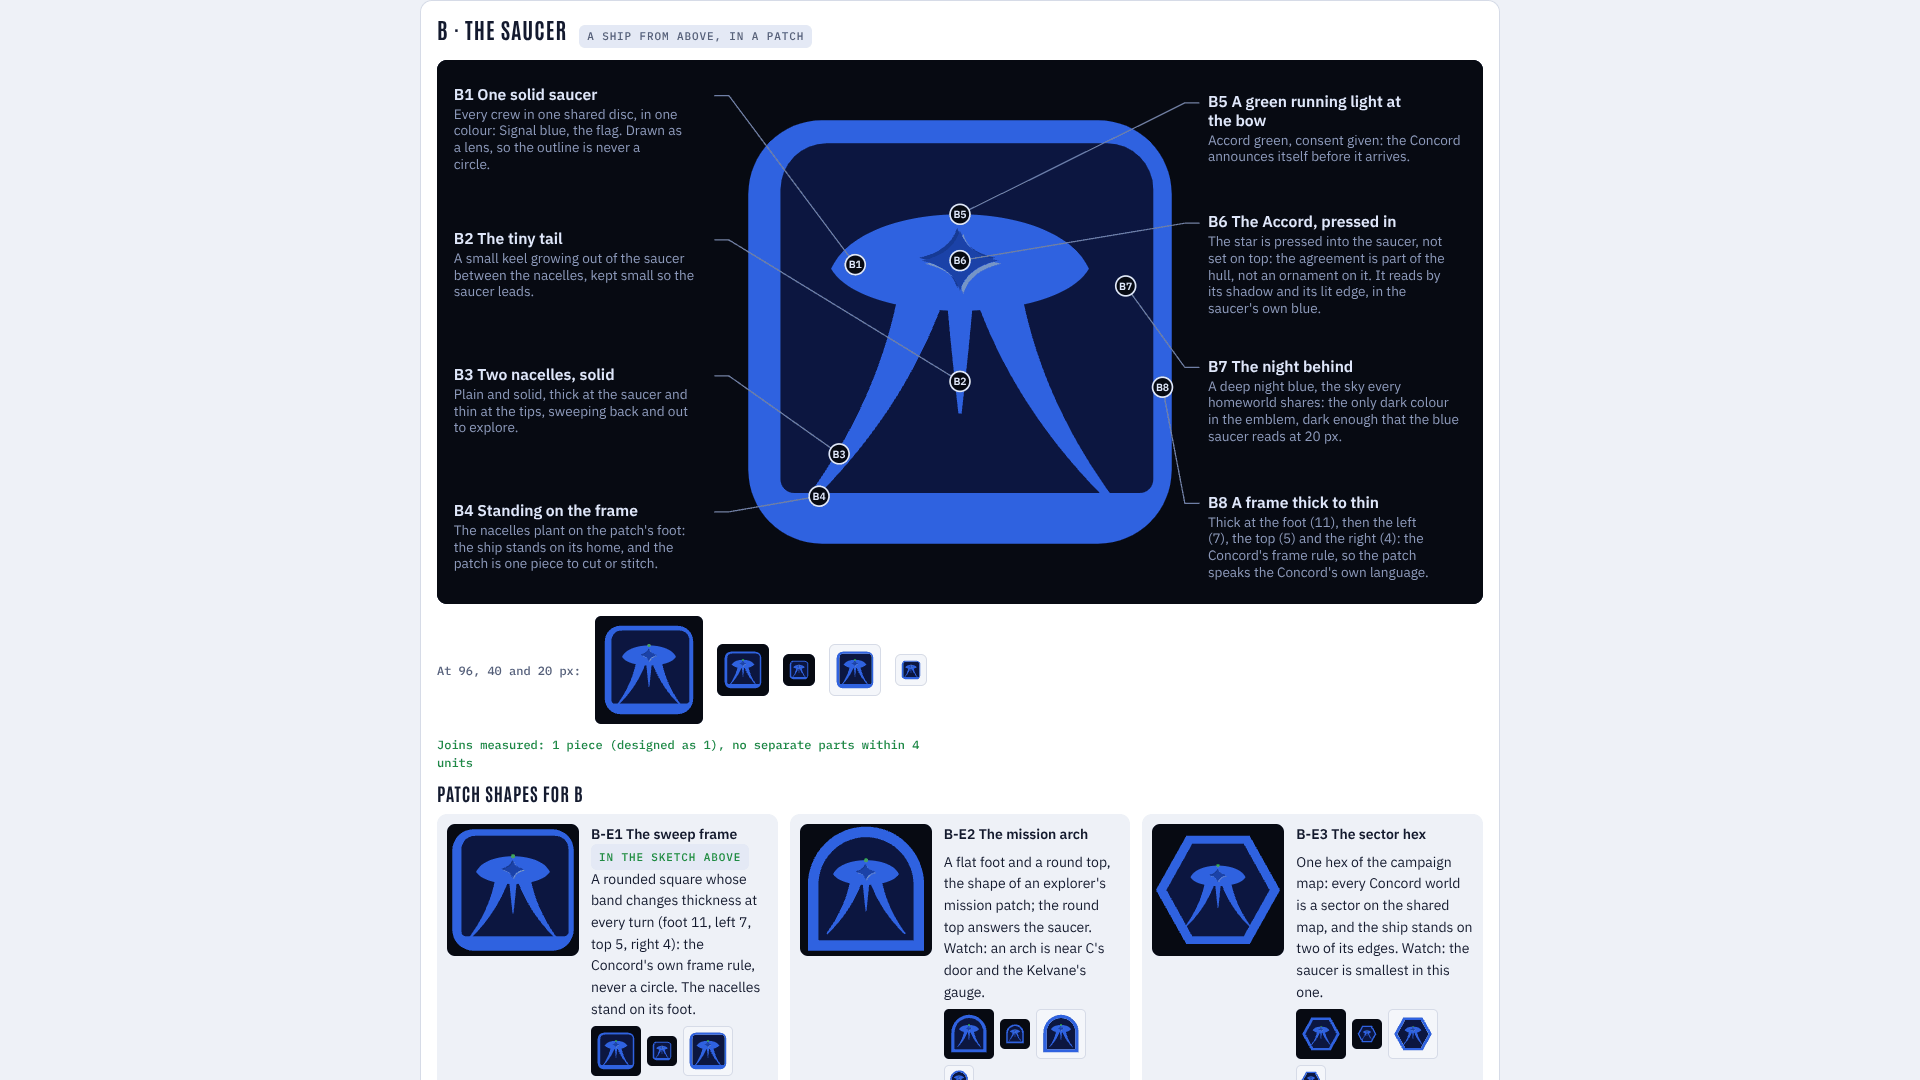
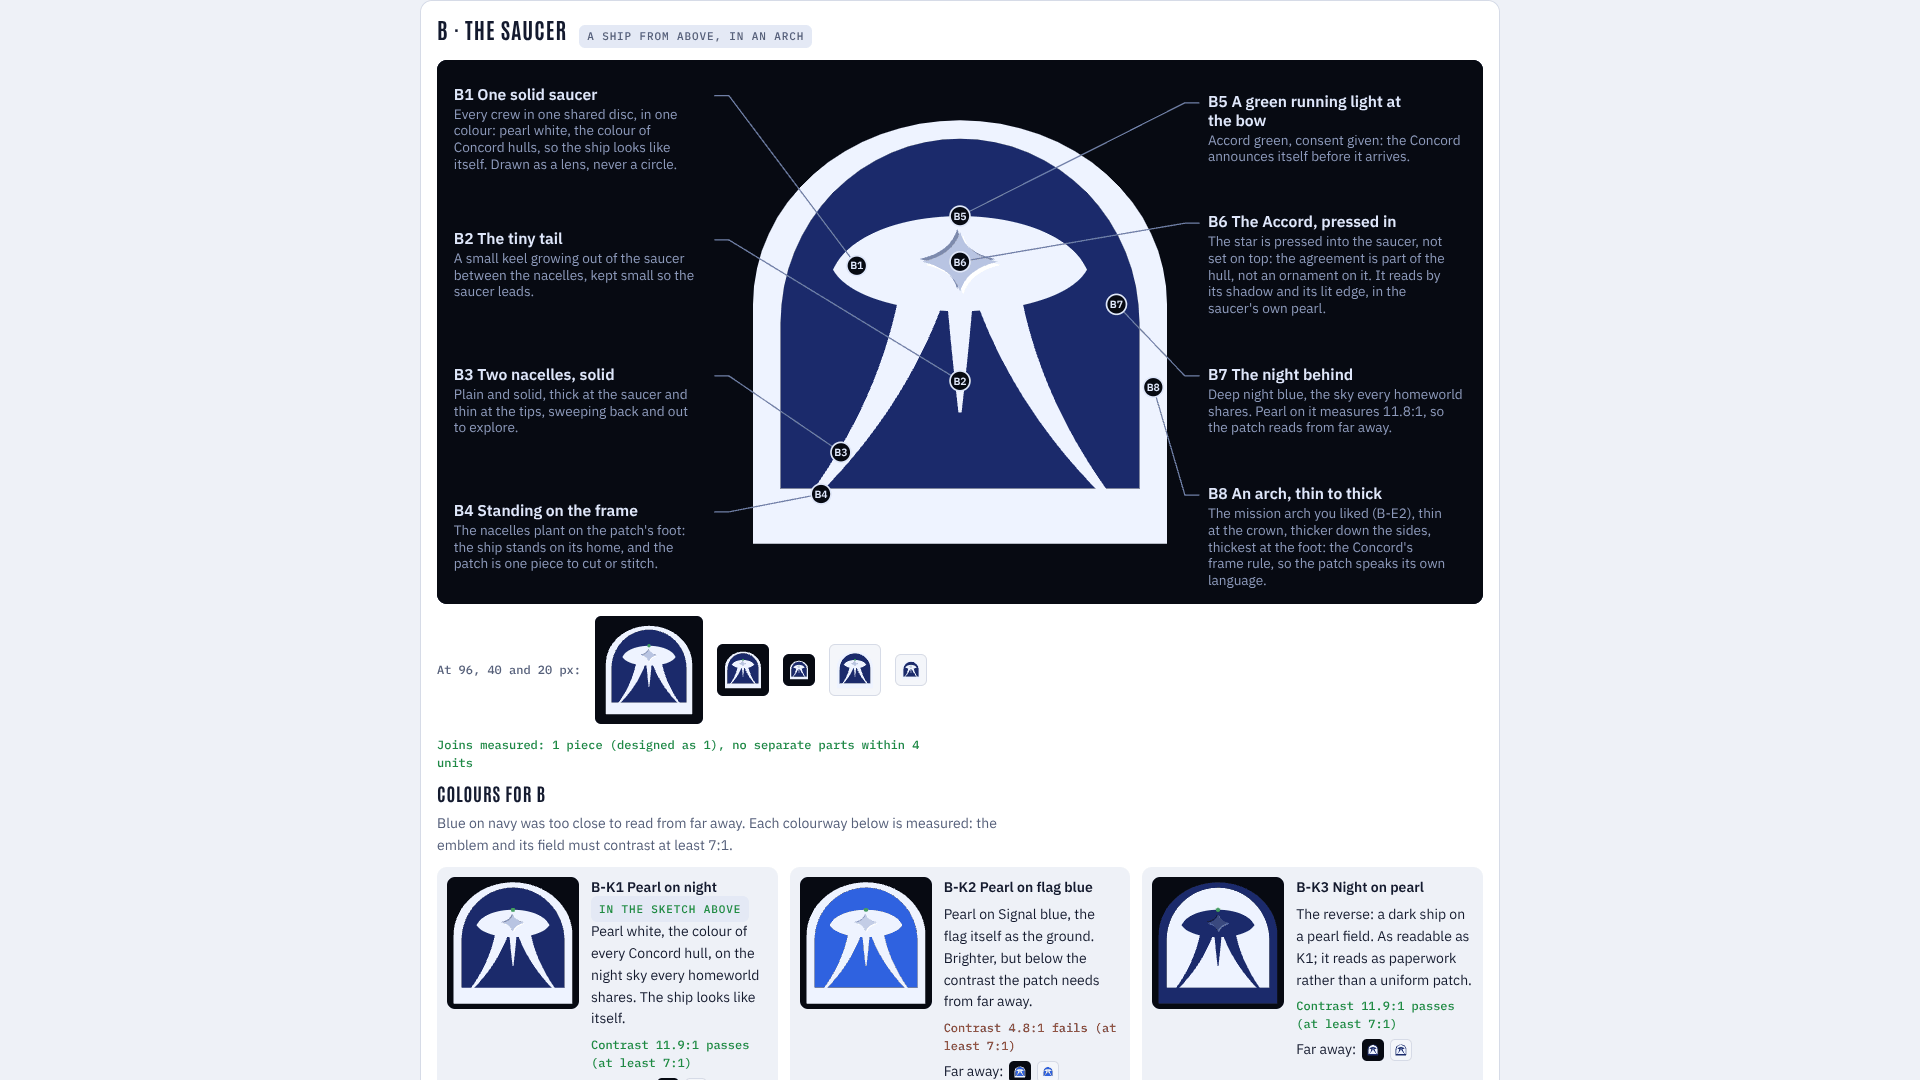
Emblem guide v6: B's arches grown from B-E2, colourways measured for contrast (pearl on night, 11.9:1)
Claude-Session: https://claude.ai/code/session_01RGPQurdNhehmMFB559epqW

diff --git a/docs/design/emblem-guide.html b/docs/design/emblem-guide.html
@@ -207,6 +207,8 @@ ol.steps .st { font: 500 11px var(--mono); letter-spacing: 0.08em; text-transfor
 'use strict';
 // ---- your notes (newest first): kept in the page, added by Claude as you give them -----------------------------------
 const NOTES = [
+  { when: '2026-11-03', q: 'those colors are no good either, hard to read from far away', means: 'Colours are now measured: the emblem and its field contrast at least 7:1 (rule 18). B is pearl white on night blue (11.9:1); two other colourways shown with their numbers and a 12 px view.' },
+  { when: '2026-11-03', q: 'dont like any of those shapes, though b-e2 is a good direction', means: 'The sweep frame (B-E1) and the hex (B-E3) dropped; four arches grown from B-E2 (B-E4 to B-E7), every one measured for joins.' },
   { when: '2026-11-03', q: 'the saucer is nice, but i dont like the way its colored. B2 has these thin lines inside of the legs. To make it an emblem that would go on a patch or something, I\'d like to seesome sort of shape encompassing that. B1\'s darker color can be removed so that it is a solid color, and the star in the middle can be impressed', means: 'B: the saucer one solid blue, no lines in the legs, the star pressed in; three patch shapes round it (B-E1 to B-E3), the sweep frame in the sketch.' },
   { when: '2026-11-03', q: 'can you label each feature A1, A2, A3 etc', means: 'Every feature on a sketch has an id (A1, A2, B1 ...), in its label and in a badge on the element, to refer to in notes.' },
   { when: '2026-11-03', q: 'that changed the jellyfish design to much, the jelly fish has a tiny small tail', means: 'B keeps its first shape (three separate legs, a tiny tail); only the joins under the saucer were closed. A fix mends the flaw and changes nothing else.' },
@@ -250,6 +252,7 @@ const RULES = [
   ['No pictured starships', 'A ship appears only abstracted into a mark, never as a recognisable craft.', 'manual p. 14'],
   ['Keep clear of protected marks', 'No arrowhead-delta, no starfield in a ring of laurels, nothing from the reference game. Near one, change the contour, the proportions, the colour and the inner symbol.', 'manual p. 15-16; CLAUDE.md section 1'],
   ['One body, no slivers', 'Every part grows out of the part it joins; parts meant to stand apart stand at least 4 grid units clear. Measured on every sketch.', 'your notes'],
+  ['Readable from far away', 'The emblem and its field contrast at least 7:1, measured, and every emblem is checked at 12 px.', 'your notes'],
   ['No lettering inside', 'The faction\'s name is set beside the emblem in its skin\'s display face, never inside it.', 'manual p. 4; the icon standard'],
 ];
 const rulesEl = document.getElementById('rules');
@@ -297,40 +300,73 @@ const path = (d, fill, extra = '') => `<path d="${d}" fill="${fill}" ${extra}/>`
 // The saucer on the 100 grid, before any frame (owner, 2026-11-03: the saucer one solid colour, no lines inside the legs,
 // the star pressed in, and "some sort of shape encompassing that" so it works as a patch). ink: the shapes only, for
 // measuring joins (no star detail, no running light).
-function saucer(ink) {
+// The colourways (owner, 2026-11-03: "those colors are no good either, hard to read from far away"): the emblem and its
+// field must differ by at least MIN_CONTRAST (the WCAG contrast ratio, measured below), so the patch reads from across
+// a room or a battle. floor, shadow and lit are the pressed star's floor, upper-left wall and lower-right rim.
+const MIN_CONTRAST = 7;
+const COLOURWAYS = [
+  { key: 'B-K1', name: 'Pearl on night', rec: true, ink: '#eef3ff', field: '#1b2a6b', floor: '#b8c4e2', shadow: '#7a8ab4', lit: '#ffffff',
+    why: 'Pearl white, the colour of every Concord hull, on the night sky every homeworld shares. The ship looks like itself.' },
+  { key: 'B-K2', name: 'Pearl on flag blue', ink: '#eef3ff', field: '#2f62e0', floor: '#c3d0f0', shadow: '#8fa3d6', lit: '#ffffff',
+    why: 'Pearl on Signal blue, the flag itself as the ground. Brighter, but below the contrast the patch needs from far away.' },
+  { key: 'B-K3', name: 'Night on pearl', ink: '#1b2a6b', field: '#eef3ff', floor: '#34479a', shadow: '#0e1840', lit: '#6077c6',
+    why: 'The reverse: a dark ship on a pearl field. As readable as K1; it reads as paperwork rather than a uniform patch.' },
+];
+const KREC = COLOURWAYS.find((k) => k.rec);
+function lum(hex) { const c = [1, 3, 5].map((i) => parseInt(hex.slice(i, i + 2), 16) / 255).map((v) => (v <= 0.04045 ? v / 12.92 : ((v + 0.055) / 1.055) ** 2.4)); return 0.2126 * c[0] + 0.7152 * c[1] + 0.0722 * c[2]; }
+function contrast(a, b) { const [x, y] = [lum(a), lum(b)].sort((m, n) => n - m); return (x + 0.05) / (y + 0.05); }
+function saucer(ink, k = KREC) {
   let s = '';
-  for (const sx of [1, -1]) { const X = (x) => 50 + sx * x; s += path(ribbon([[X(9), 38], [X(14), 58], [X(24), 76], [X(38), 92]], (t) => 5.2 * (1 - t) + 0.7), C.signal); }
-  s += path(ribbon([[50, 40], [50, 52], [50, 61], [50, 70]], (t) => 3 * (1 - t) + 0.4), C.signal);
-  s += path('M18 34C26 16 74 16 82 34C74 48 26 48 18 34Z', C.signal);
+  for (const sx of [1, -1]) { const X = (x) => 50 + sx * x; s += path(ribbon([[X(9), 38], [X(14), 58], [X(24), 76], [X(38), 92]], (t) => 5.2 * (1 - t) + 0.7), k.ink); }
+  s += path(ribbon([[50, 40], [50, 52], [50, 61], [50, 70]], (t) => 3 * (1 - t) + 0.4), k.ink);
+  s += path('M18 34C26 16 74 16 82 34C74 48 26 48 18 34Z', k.ink);
   if (ink) return s;
   // Pressed in, lit from the upper left: the upper-left wall in shadow, the lower-right wall catching the light.
   const st = glint(50, 32, 9.5, 7.5, 1.7);
-  s += `<path d="${st}" fill="#163a94" transform="translate(-0.7 -0.7)"/><path d="${st}" fill="#6f96f2" transform="translate(0.8 0.8)"/>`;
-  s += path(st, '#1b42a8');
+  s += `<path d="${st}" fill="${k.shadow}" transform="translate(-0.7 -0.7)"/><path d="${st}" fill="${k.lit}" transform="translate(0.8 0.8)"/>`;
+  s += path(st, k.floor);
   s += `<circle cx="50" cy="20.5" r="1.8" fill="${C.accord}"/>`;
   return s;
 }
 // Each patch: its frame (even-odd), the field inside it, and the scale the saucer takes inside it (about 50, 52).
 const ENCLOSURES = [
-  { key: 'B-E1', name: 'The sweep frame', rec: true, scale: 0.875, pieces: 1,
-    frame: 'M20 4H80A16 16 0 0 1 96 20V80A16 16 0 0 1 80 96H20A16 16 0 0 1 4 80V20A16 16 0 0 1 20 4ZM21 9H82A10 10 0 0 1 92 19V82A3 3 0 0 1 89 85H14A3 3 0 0 1 11 82V19A10 10 0 0 1 21 9Z',
-    field: 'M21 9H82A10 10 0 0 1 92 19V82A3 3 0 0 1 89 85H14A3 3 0 0 1 11 82V19A10 10 0 0 1 21 9Z',
-    why: 'A rounded square whose band changes thickness at every turn (foot 11, left 7, top 5, right 4): the Concord\'s own frame rule, never a circle. The nacelles stand on its foot.' },
-  { key: 'B-E2', name: 'The mission arch', scale: 0.78, pieces: 2,
+  { key: 'B-E2', name: 'The mission arch', liked: true, scale: 0.78, pieces: 2,
     frame: 'M6 96V46A44 44 0 0 1 94 46V96ZM14 88V46A36 36 0 0 1 86 46V88Z',
     field: 'M14 88V46A36 36 0 0 1 86 46V88Z',
-    why: 'A flat foot and a round top, the shape of an explorer\'s mission patch; the round top answers the saucer. Watch: an arch is near C\'s door and the Kelvane\'s gauge.' },
-  { key: 'B-E3', name: 'The sector hex', scale: 0.65, pieces: 1,
-    frame: 'M3 50L26 9H74L97 50L74 91H26ZM11 50L30.5 15H69.5L89 50L69.5 85H30.5Z',
-    field: 'M11 50L30.5 15H69.5L89 50L69.5 85H30.5Z',
-    why: 'One hex of the campaign map: every Concord world is a sector on the shared map, and the ship stands on two of its edges. Watch: the saucer is smallest in this one.' },
+    why: 'A flat foot and a round top, the shape of an explorer\'s mission patch; the round top answers the saucer. You called it a good direction: the four below grow from it.' },
+  { key: 'B-E4', name: 'The thickening arch', rec: true, scale: 0.8625, pieces: 1,
+    frame: 'M5 96V44A45 40 0 0 1 95 44V96ZM11 84V48A39 40 0 0 1 89 48V84Z',
+    field: 'M11 84V48A39 40 0 0 1 89 48V84Z',
+    why: 'B-E2\'s arch with the Concord\'s frame rule: thin at the crown (4), thicker down the sides (6), thickest at the foot (12). The nacelles stand on the foot, so the patch is one piece.' },
+  { key: 'B-E5', name: 'The hangar door', scale: 0.8, pieces: 1,
+    frame: 'M4 96V46H12V34A38 30 0 0 1 88 34V46H96V96ZM10 83V52H18V38A32 26 0 0 1 82 38V52H90V83Z',
+    field: 'M10 83V52H18V38A32 26 0 0 1 82 38V52H90V83Z',
+    why: 'A wide door with stepped shoulders under a round top: the hangar door every Concord ship opens to anyone who asks for help. The steps change the band\'s line at every turn.' },
+  { key: 'B-E6', name: 'The flared arch', scale: 0.8625, pieces: 1,
+    frame: 'M2 96C6 80 8 64 8 46A42 42 0 0 1 92 46C92 64 94 80 98 96ZM12 85C14 74 15 62 15 47A35 35 0 0 1 85 47C85 62 86 74 88 85Z',
+    field: 'M12 85C14 74 15 62 15 47A35 35 0 0 1 85 47C85 62 86 74 88 85Z',
+    why: 'The arch\'s sides flare outward to the foot the way the nacelles flare, so the frame and the ship share one gesture: reaching out.' },
+  { key: 'B-E7', name: 'The saucer arch', scale: 0.8625, pieces: 1,
+    frame: 'M4 96V50L1 44C13 -2 87 -2 99 44L96 50V96ZM11 85V48C20 6 80 6 89 48V85Z',
+    field: 'M11 85V48C20 6 80 6 89 48V85Z',
+    why: 'The top is the saucer\'s own curve, ending in the same sharp points at the shoulders: the patch is shaped by the ship it holds.' },
 ];
-function enclosed(e, ink) {
-  const g = `<g transform="translate(50 52) scale(${e.scale}) translate(-50 -52)">${saucer(ink)}</g>`;
-  return (ink ? '' : path(e.field, '#0c1640')) + `<path d="${e.frame}" fill="${C.signal}" fill-rule="evenodd"/>` + g;
+const REC = ENCLOSURES.findIndex((e) => e.rec);
+function enclosed(e, ink, k = KREC) {
+  const g = `<g transform="translate(50 52) scale(${e.scale}) translate(-50 -52)">${saucer(ink, k)}</g>`;
+  return (ink ? '' : path(e.field, k.field)) + `<path d="${e.frame}" fill="${k.ink}" fill-rule="evenodd"/>` + g;
+}
+// The colourways side by side on the arch in the sketch, each at 96 px and at 12 px (far away), with its measured contrast.
+function colourRow() {
+  const e = ENCLOSURES[REC];
+  return `<div class="encl"><h4>Colours for B</h4><p class="muted" style="font-size:14px">Blue on navy was too close to read from far away. Each colourway below is measured: the emblem and its field must contrast at least ${MIN_CONTRAST}:1.</p><div class="encl-row">${COLOURWAYS.map((k) => { const c = contrast(k.ink, k.field); return `<figure>
+    <svg viewBox="0 0 100 100" width="132" height="132" aria-hidden="true">${enclosed(e, false, k)}</svg>
+    <figcaption><b>${k.key} ${k.name}</b>${k.rec ? '<span><span class="chip rec">In the sketch above</span></span>' : ''}<span>${k.why}</span>
+    <span class="joins${c >= MIN_CONTRAST ? '' : ' bad'}">Contrast ${c.toFixed(1)}:1 ${c >= MIN_CONTRAST ? 'passes' : 'fails'} (at least ${MIN_CONTRAST}:1)</span>
+    <span class="mini">Far away: ${['dk', 'lt'].map((bg) => `<span class="${bg}" style="width:22px;height:22px"><svg width="12" height="12" viewBox="0 0 100 100">${enclosed(e, false, k)}</svg></span>`).join('')}</span></figcaption></figure>`; }).join('')}</div></div>`;
 }
 // A point of the bare saucer moved to where it sits inside enclosure i.
-function encT(i, x, y) { const k = ENCLOSURES[i].scale; return [+(50 + (x - 50) * k).toFixed(2), +(52 + (y - 52) * k).toFixed(2)]; }
+function encT(i, x, y) { const k = ENCLOSURES[i < 0 ? REC : i].scale; return [+(50 + (x - 50) * k).toFixed(2), +(52 + (y - 52) * k).toFixed(2)]; }
 
 // ---- the Concord's four directions -----------------------------------------------------------------------------------
 // Each: id, name, outline (its silhouette class), recommended?, risk (anything it might be mistaken for), draw() returning
@@ -371,19 +407,19 @@ const DESIGNS = [
     ],
   },
   {
-    id: 'concord-b', name: 'B · The Saucer', outline: 'A ship from above, in a patch', pieces: 1,
+    id: 'concord-b', name: 'B · The Saucer', outline: 'A ship from above, in an arch', pieces: 1,
     risk: 'A pictured starship: the manual allows one only when abstracted into a mark (p. 14), and a saucer with nacelles is the shape most likely to be read as borrowed from a famous ship. The weakest of the four on rule 15.',
-    draw() { return enclosed(ENCLOSURES[0], false); },
-    ink() { return enclosed(ENCLOSURES[0], true); },
+    draw() { return enclosed(ENCLOSURES[REC], false); },
+    ink() { return enclosed(ENCLOSURES[REC], true); },
     callouts: [
-      [...encT(0, 24, 33), 'L', 'One solid saucer', 'Every crew in one shared disc, in one colour: Signal blue, the flag. Drawn as a lens, so the outline is never a circle.'],
-      [...encT(0, 20, 80), 'L', 'Two nacelles, solid', 'Plain and solid, thick at the saucer and thin at the tips, sweeping back and out to explore.'],
-      [...encT(0, 15, 90.5), 'L', 'Standing on the frame', 'The nacelles plant on the patch\'s foot: the ship stands on its home, and the patch is one piece to cut or stitch.'],
-      [...encT(0, 50, 62), 'L', 'The tiny tail', 'A small keel growing out of the saucer between the nacelles, kept small so the saucer leads.'],
-      [...encT(0, 50, 20.5), 'R', 'A green running light at the bow', 'Accord green, consent given: the Concord announces itself before it arrives.'],
-      [...encT(0, 50, 32), 'R', 'The Accord, pressed in', 'The star is pressed into the saucer, not set on top: the agreement is part of the hull, not an ornament on it. It reads by its shadow and its lit edge, in the saucer\'s own blue.'],
-      [86, 40, 'R', 'The night behind', 'A deep night blue, the sky every homeworld shares: the only dark colour in the emblem, dark enough that the blue saucer reads at 20 px.'],
-      [94, 62, 'R', 'A frame thick to thin', 'Thick at the foot (11), then the left (7), the top (5) and the right (4): the Concord\'s frame rule, so the patch speaks the Concord\'s own language.'],
+      [...encT(-1, 24, 33), 'L', 'One solid saucer', 'Every crew in one shared disc, in one colour: pearl white, the colour of Concord hulls, so the ship looks like itself. Drawn as a lens, never a circle.'],
+      [...encT(-1, 20, 80), 'L', 'Two nacelles, solid', 'Plain and solid, thick at the saucer and thin at the tips, sweeping back and out to explore.'],
+      [...encT(-1, 15, 90.5), 'L', 'Standing on the frame', 'The nacelles plant on the patch\'s foot: the ship stands on its home, and the patch is one piece to cut or stitch.'],
+      [...encT(-1, 50, 62), 'L', 'The tiny tail', 'A small keel growing out of the saucer between the nacelles, kept small so the saucer leads.'],
+      [...encT(-1, 50, 20.5), 'R', 'A green running light at the bow', 'Accord green, consent given: the Concord announces itself before it arrives.'],
+      [...encT(-1, 50, 32), 'R', 'The Accord, pressed in', 'The star is pressed into the saucer, not set on top: the agreement is part of the hull, not an ornament on it. It reads by its shadow and its lit edge, in the saucer\'s own pearl.'],
+      [84, 44, 'R', 'The night behind', 'Deep night blue, the sky every homeworld shares. Pearl on it measures 11.9:1, so the patch reads from far away.'],
+      [92, 62, 'R', 'An arch, thin to thick', 'The mission arch you liked (B-E2), thin at the crown, thicker down the sides, thickest at the foot: the Concord\'s frame rule, so the patch speaks its own language.'],
     ],
   },
   {
@@ -437,10 +473,10 @@ const DESIGNS = [
 
 // The three patch shapes for B, side by side, each with its reason.
 function enclosureRow() {
-  return `<div class="encl"><h4>Patch shapes for B</h4><div class="encl-row">${ENCLOSURES.map((e) => `<figure>
+  return `<div class="encl"><h4>Arches for B</h4><p class="muted" style="font-size:14px">The sweep frame (B-E1) and the sector hex (B-E3) are gone; the mission arch (B-E2) was the direction you liked, and B-E4 to B-E7 grow from it.</p><div class="encl-row">${ENCLOSURES.map((e) => `<figure>
     <svg viewBox="0 0 100 100" width="132" height="132" aria-hidden="true">${enclosed(e, false)}</svg>
-    <figcaption><b>${e.key} ${e.name}</b>${e.rec ? '<span><span class="chip rec">In the sketch above</span></span>' : ''}<span>${e.why}</span>
-    <span class="mini">${['dk', 'lt'].map((bg) => [40, 20].map((px) => `<span class="${bg}" style="width:${px + 10}px;height:${px + 10}px"><svg width="${px}" height="${px}" viewBox="0 0 100 100">${enclosed(e, false)}</svg></span>`).join('')).join('')}</span></figcaption></figure>`).join('')}</div></div>`;
+    <figcaption><b>${e.key} ${e.name}</b>${e.rec ? '<span><span class="chip rec">In the sketch above</span></span>' : ''}${e.liked ? '<span><span class="chip">Your direction</span></span>' : ''}<span>${e.why}</span>
+    <span class="joins" data-joins-enc="${e.key}">Measuring joins...</span><span class="mini">${['dk', 'lt'].map((bg) => [40, 20].map((px) => `<span class="${bg}" style="width:${px + 10}px;height:${px + 10}px"><svg width="${px}" height="${px}" viewBox="0 0 100 100">${enclosed(e, false)}</svg></span>`).join('')).join('')}</span></figcaption></figure>`).join('')}</div></div>`;
 }
 // One image per design: the sketch in the middle (the 100 grid at 4 px a unit), callouts in two columns, each with a
 // leader line to the element it explains and a dot on it.
@@ -494,7 +530,7 @@ for (const d of DESIGNS) {
     <div class="figure">${figure(d)}</div>
     <div class="small">At 96, 40 and 20 px: ${mark(d, 96, 'dk')}${mark(d, 40, 'dk')}${mark(d, 20, 'dk')}${mark(d, 40, 'lt')}${mark(d, 20, 'lt')}</div>
     <p class="joins" data-joins>Measuring joins...</p>
-    ${d.id === 'concord-b' ? enclosureRow() : ''}
+    ${d.id === 'concord-b' ? colourRow() + enclosureRow() : ''}
     ${d.risk ? `<p class="risk">Watch: ${d.risk}</p>` : ''}
     <div class="notebox"><label for="note-${d.id}">Your note on ${d.name.split(' · ')[1]}</label>
       <textarea id="note-${d.id}" placeholder="What to keep, what to change. Refer to a feature by its id, such as ${d.name[0]}2."></textarea>
@@ -541,6 +577,11 @@ async function measureJoins(d) {
 }
 window.EMBLEM_CHECK = async () => {
   const out = [];
+  for (const e of ENCLOSURES) {
+    const r = await measureJoins({ pieces: e.pieces, draw: () => enclosed(e, true) }); out.push({ id: 'concord-b ' + e.key, ...r });
+    const el = document.querySelector(`[data-joins-enc="${e.key}"]`);
+    if (el) { el.classList.toggle('bad', !r.ok); el.textContent = (r.ok ? 'Joins measured: ' : 'Joins FAIL: ') + `${r.pieces} piece${r.pieces === 1 ? '' : 's'} (designed ${r.expected})` + (Number.isFinite(r.nearest) ? `, parts ${r.nearest.toFixed(1)} apart` : ''); }
+  }
   for (const d of DESIGNS) {
     const r = await measureJoins(d); out.push({ id: d.id, ...r });
     const el = document.querySelector(`#${d.id} [data-joins]`);

diff --git a/docs/artifacts/emblem-guide/README.md b/docs/artifacts/emblem-guide/README.md
@@ -33,3 +33,8 @@
   solid Signal blue, no lines in the legs, the star pressed in (a shaded floor with a lit lower-right rim), the
   nacelles standing on a patch frame; three patch shapes shown with reasons (B-E1 the sweep frame, in the sketch; B-E2
   the mission arch; B-E3 the sector hex); B's joins measured on the emblem and frame without the field.
+- Version 6 published 2026-11-03: B's frames and colours (owner: "dont like any of those shapes, though b-e2 is a good
+  direction", "those colors are no good either, hard to read from far away"): the sweep frame and the hex dropped; four
+  arches grown from B-E2 (B-E4 the thickening arch, in the sketch; B-E5 the hangar door; B-E6 the flared arch; B-E7 the
+  saucer arch), each one's joins measured; colourways measured for contrast (at least 7:1, rule 18): B-K1 pearl on
+  night (11.9:1, in the sketch), B-K2 pearl on flag blue (4.8:1, fails), B-K3 night on pearl (11.9:1), each at 12 px.
